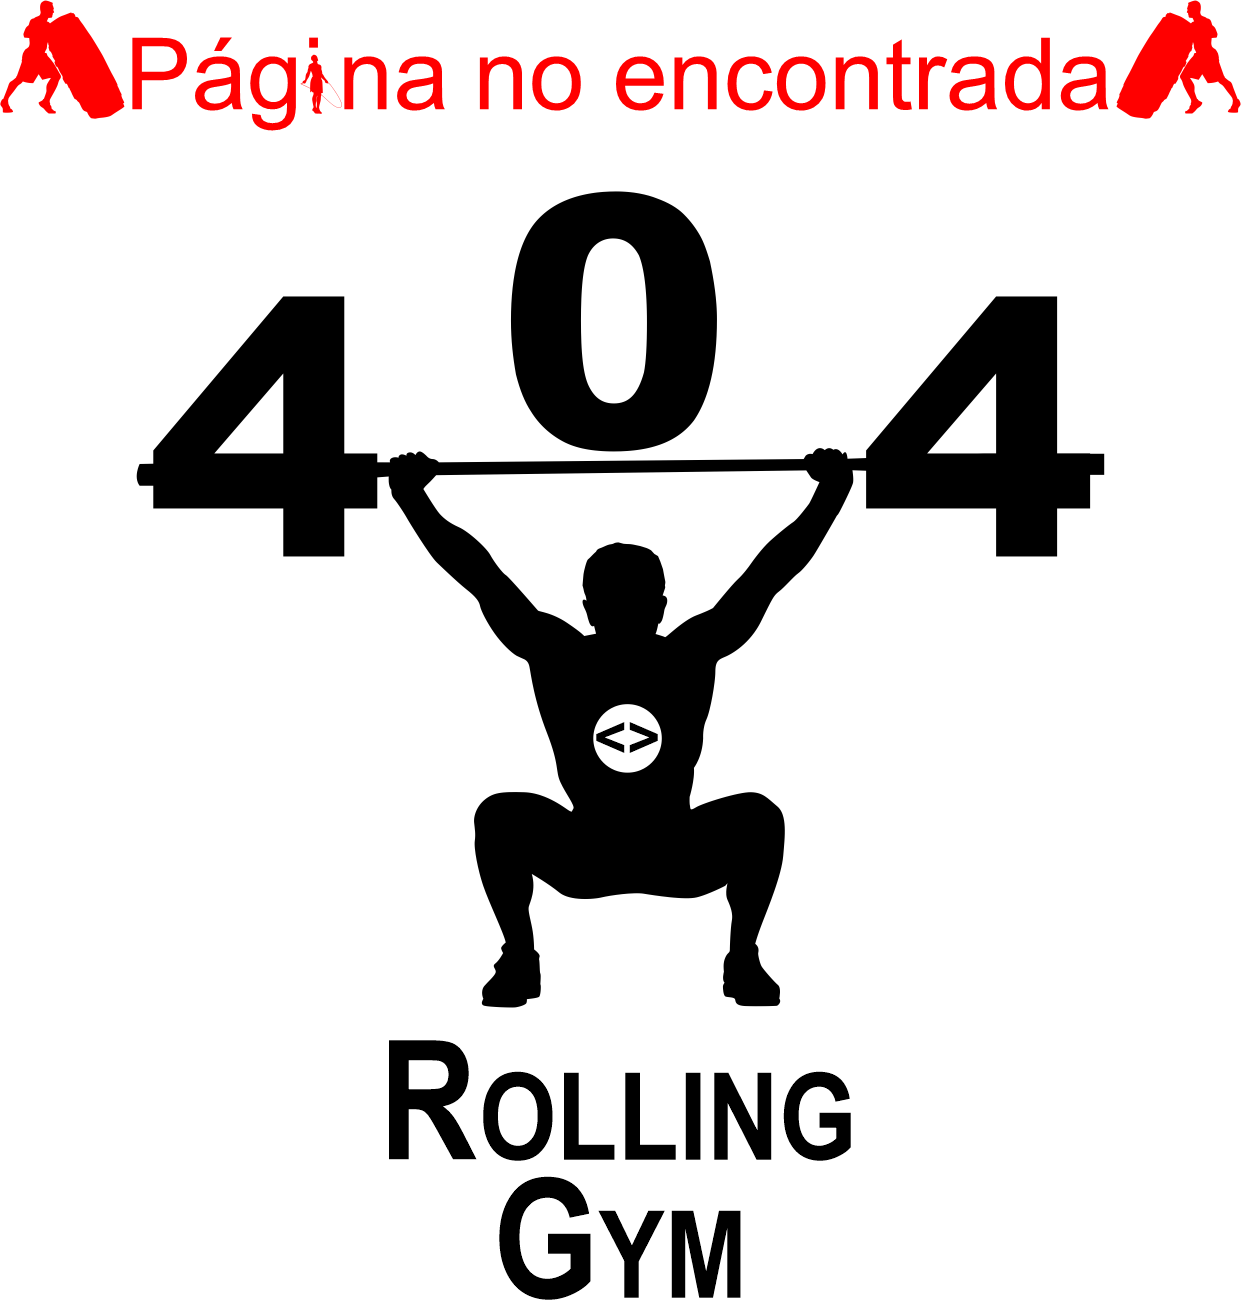
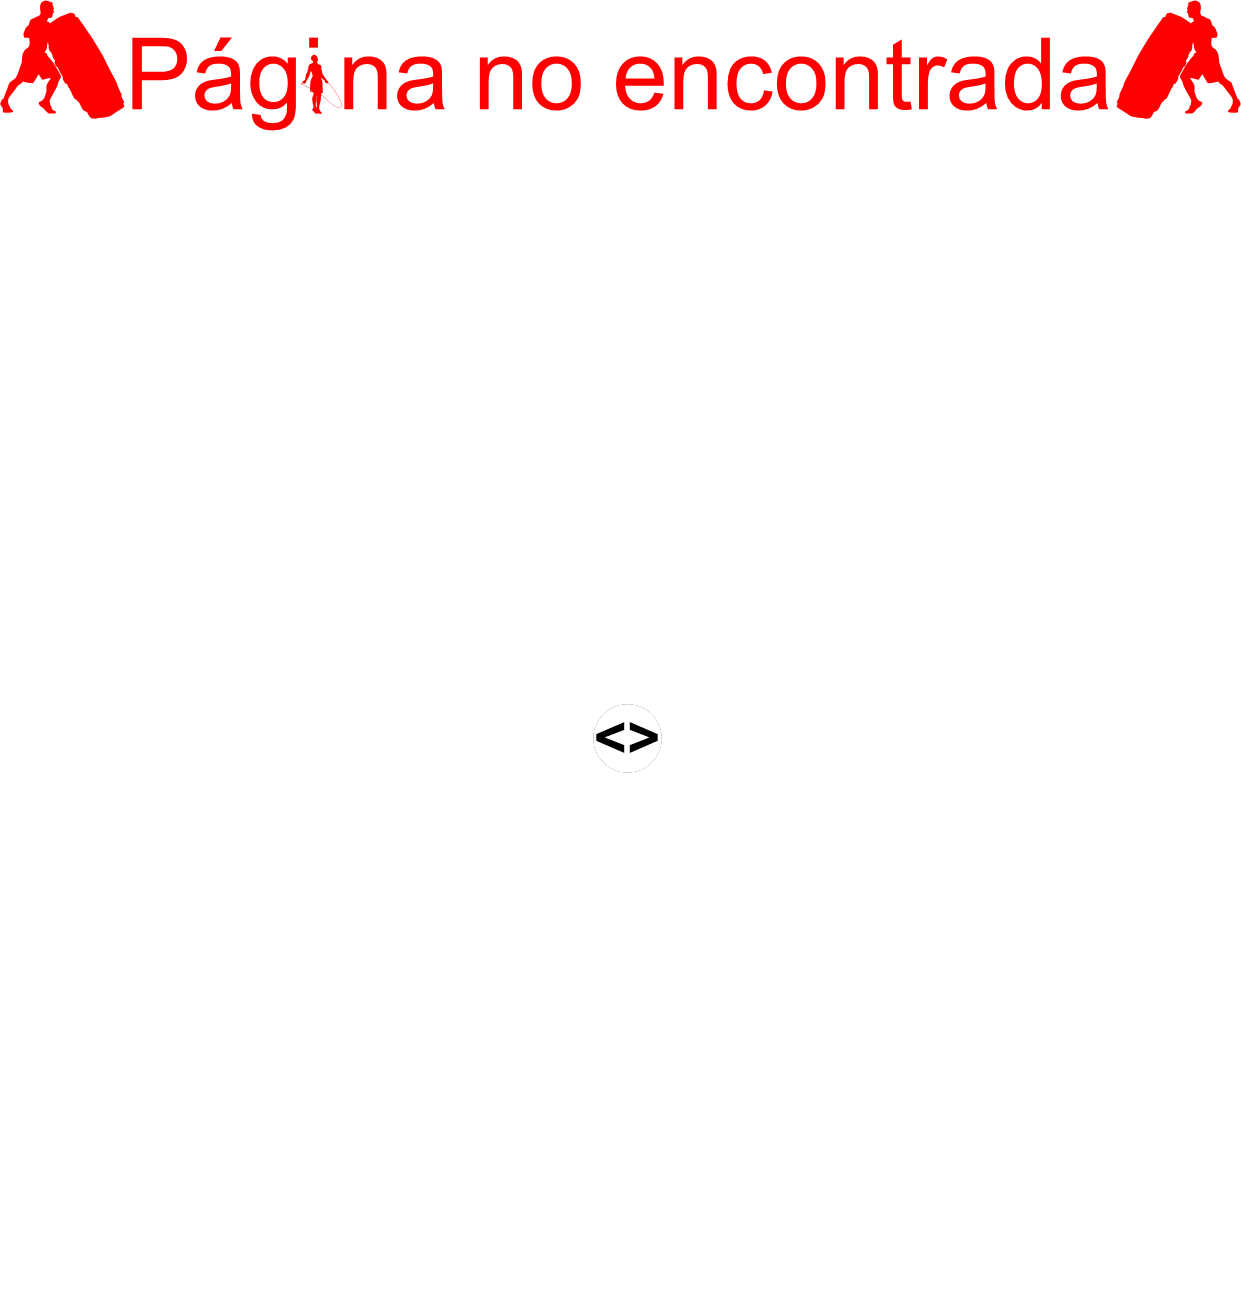
se agregaron fondos y mejoras navbar

Changed region(s): [[0.0919, 0.123, 0.888, 1.0]]

diff --git a/src/components/PanelClases.jsx b/src/components/PanelClases.jsx
@@ -66,15 +66,15 @@ const PanelClases = () => {
 
   return (
     <>
-    
+    <div style={{ backgroundImage: `url('src/images/clases.jpg')`, backgroundSize: 'cover', backgroundPosition: 'center', minHeight: '100vh' }}>
     <NavBar/>
-
-    <div className="container" style={{minHeight: "34rem"}}>
+    
+    <div className="container" style={{minHeight: "34rem", color:"white"}}>
       
       <div className="row">
         <div className="col">
-          <h2 className="text-center">Bienvenido a Rolling Gym</h2>
-          <hr />
+          <h2 className="text-center" style={{backgroundColor:"black"}}>Bienvenido a Rolling Gym</h2>
+          <hr style={{color:"black"}} />
         </div>
       </div>
 
@@ -82,12 +82,12 @@ const PanelClases = () => {
         <div className="col">
           <div className="clasesReservadas">
 
-          <h2 id="reservadas" >Clases reservadas</h2>
+          <h2 id="reservadas" style={{backgroundColor:"black"}} >Clases reservadas</h2>
        </div>
 
        <div className="clasesReservadas">
          <Link to={"/Reservar"}>
-            <button className="btn btn-primary mr-2 mb-2">
+            <button className="btn btn-primary mr-2 mb-2 mt-3">
                Clases dispobles 
             </button>
           </Link>
@@ -161,6 +161,7 @@ const PanelClases = () => {
     </div>
 
     <Footer/>
+    </div>
     </>
   );
 };

diff --git a/src/pages/Contacto.jsx b/src/pages/Contacto.jsx
@@ -8,7 +8,7 @@ import Card from "react-bootstrap/Card";
 import emailjs from "@emailjs/browser";
 import NavBar from "../components/NavBar";
 import { Footer } from "../components/Footer";
-import backgroundImage from "../images/fotogym2.jpg"; // Importa la imagen de fondo
+
 
 export const Contacto = () => {
   const [formValues, setFormValues] = useState({
@@ -64,16 +64,13 @@ export const Contacto = () => {
 
   return (
     <>
+    <div style={{ backgroundImage: `url('src/images/fotogym2.jpg')`, backgroundSize: 'cover', backgroundPosition: 'center', minHeight: '100vh' }}>
       <NavBar />
     
       
         <Container
         fluid
-        style={{
-          backgroundImage: `url(${backgroundImage})`,
-          backgroundSize: "cover",
-          backgroundPosition: "center",
-        }}
+        
       >
         <Row className="vh-100 d-flex justify-content-center align-items-center">
           <Col md={8} lg={6} xs={12}>
@@ -137,12 +134,9 @@ export const Contacto = () => {
           </Col>
         </Row>
       </Container>
-      
-      
-
-      
 
       <Footer />
+      </div>
     </>
   );
 };

diff --git a/src/pages/Login.jsx b/src/pages/Login.jsx
@@ -47,17 +47,9 @@ const Login = () => {
 
   return (
     <>
+    <div style={{ backgroundImage: `url('src/images/rollingGimAsset.jpg')`, backgroundSize: 'cover', backgroundPosition: 'center', minHeight: '100vh' }}>
     <NavBar />
-    <div
-      className="d-flex align-items-center justify-content-center"
-      style={{
-        backgroundImage: "url(src/images/rollingGimAsset.jpg)",
-        backgroundSize: "cover",
-        backgroundPosition: "center",
-        width: "100vw",
-        height: "100vh",
-      }}
-    >
+
       {!loading && (
         <MDBContainer style={{ color: "white" }}>
           <MDBCard
@@ -126,10 +118,13 @@ const Login = () => {
               height: "200px",
             }}
           />
+          
         </div>
+        
       )}
+      <Footer />
     </div>
-    <Footer />
+    
     </>
   );
 };

diff --git a/src/pages/UserPage.jsx b/src/pages/UserPage.jsx
@@ -13,8 +13,9 @@ export const UserPage = () => {
 
   return (
     <>
+<div style={{ backgroundImage: `url('src/images/userpage2.jpg')`, backgroundSize: 'cover', backgroundPosition: 'center', minHeight: '100vh' }}>
       <NavBar />
-      <div className="container mt-4">
+      <div className="container mt-4" style={{color:"white", backgroundColor:"black", borderRadius:"50px"}}>
         <div className="row">
           <div className="col">
             <h2 className="text-center">
@@ -50,6 +51,8 @@ export const UserPage = () => {
         </div>
       </div>
       <CreateUserModal show={modalShow} onHide={() => setModalShow(false)} />
+      
+      </div>
       <Footer />
     </>
   );

diff --git a/src/pages/AdminPage.jsx b/src/pages/AdminPage.jsx
@@ -12,9 +12,9 @@ export const AdminPage = () => {
   const [modalShow, setModalShow] = useState(false);
 
   return (
-    <div>
+    <div style={{ backgroundImage: `url('src/images/adminpage.jpg')`, backgroundSize: 'cover', backgroundPosition: 'center', minHeight: '100vh' }}>
       <NavBar/>
-      <div className="container" style={{minHeight:"34rem"}}>
+      <div className="container" style={{minHeight:"34rem", color:"black", backgroundColor:"white", borderRadius:"50px"}}>
         <div className="row">
           <div className="col">
             <h2 className="text-center">

diff --git a/src/pages/Error404.jsx b/src/pages/Error404.jsx
@@ -10,6 +10,7 @@ export const Error404 = () => {
   };
 
   return (
+    <div style={{ backgroundImage: `url('src/images/404.jpg')`, backgroundSize: 'cover', backgroundPosition: 'center', minHeight: '100vh' }}>
     <div style={{ position: "relative" }}>
       <div
         style={{
@@ -34,6 +35,7 @@ export const Error404 = () => {
           Volver
         </Button>
       </Link>
+    </div>
     </div>
   );
 };

diff --git a/src/pages/ReservarPage.jsx b/src/pages/ReservarPage.jsx
@@ -6,11 +6,11 @@ import { Footer } from "../components/Footer"
 const ReservarPage = () => {
   return (
    <>
-    
+        <div style={{ backgroundImage: `url('src/images/reservar.jpg')`, backgroundSize: 'cover', backgroundPosition: 'center', minHeight: '100vh' }}>
     <NavBar/>
     <ReservaTurno/>
     <Footer/>
-  
+    </div>
    </>
   )
 }

diff --git a/src/components/ReservaTurno.jsx b/src/components/ReservaTurno.jsx
@@ -49,7 +49,7 @@ const ReservaTurno = () => {
 
   console.log("datos de la hora: ", hora);
   return (
-    <div className="container" id="contenedor"  style={{minHeight: "34rem"}}>
+    <div className="container" id="contenedor"  style={{minHeight: "34rem", color:"black"}}>
      
       
       <div className="row">

diff --git a/src/css/NavBar.css b/src/css/NavBar.css
@@ -32,8 +32,11 @@
   
 }
 
-.ItemNav{
+.ItemNav {
     color: white;
+    border-radius: 80px; /* Agregamos bordes redondeados */
+    transition: background-color 1.5s ease; /* Hacemos la transición más suave y lenta */
+
 }
 
 .btn-hover:hover {
